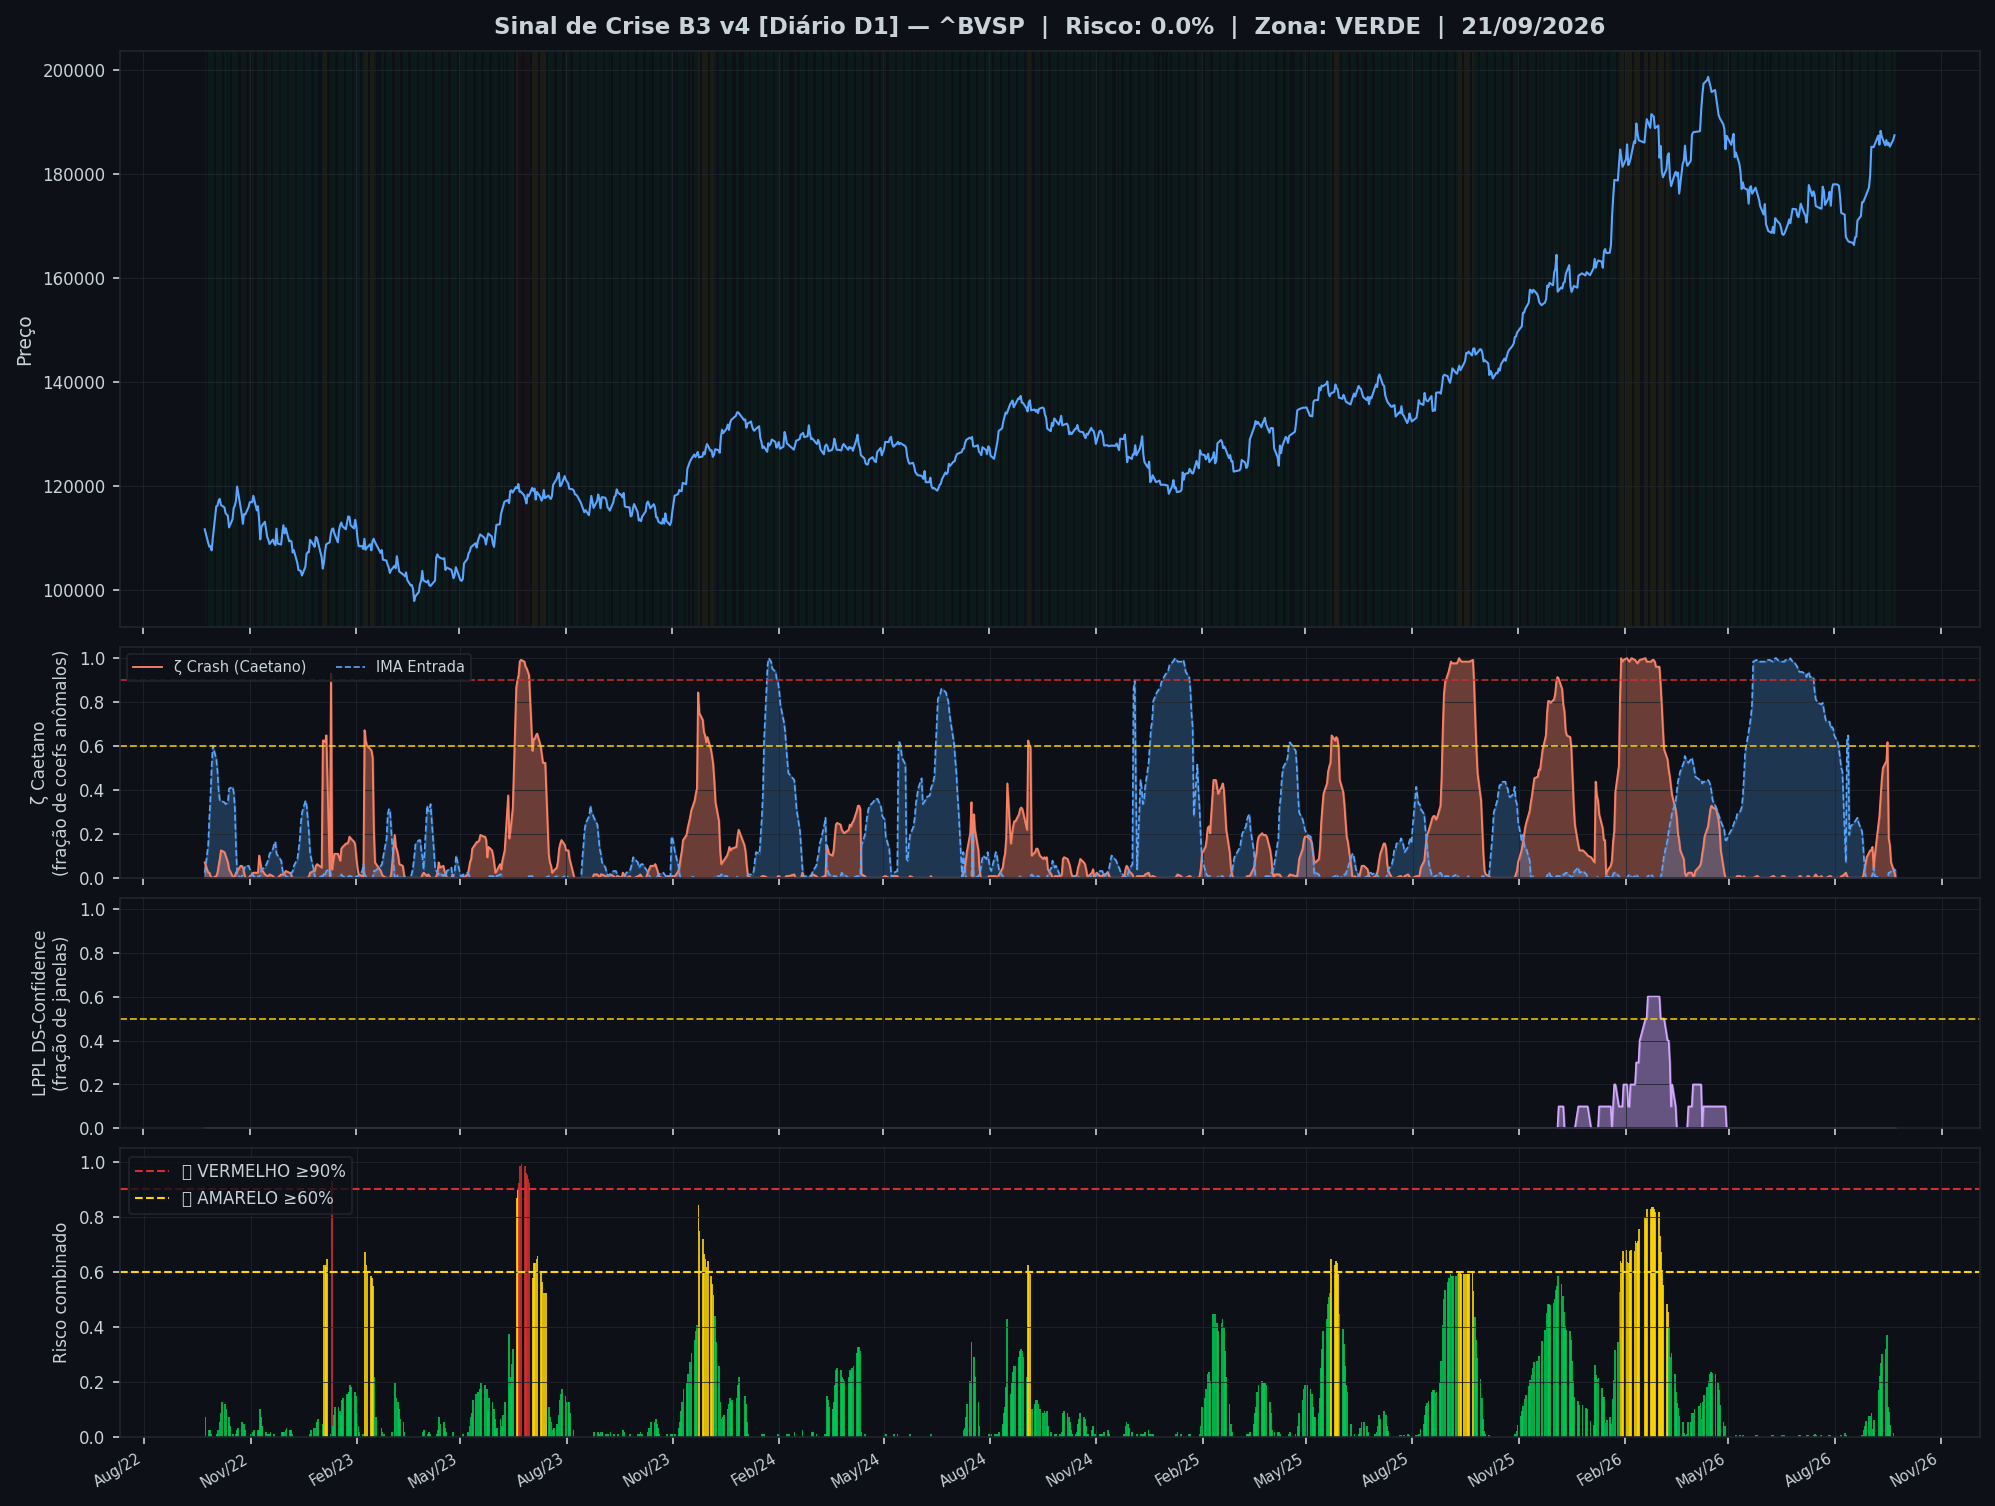
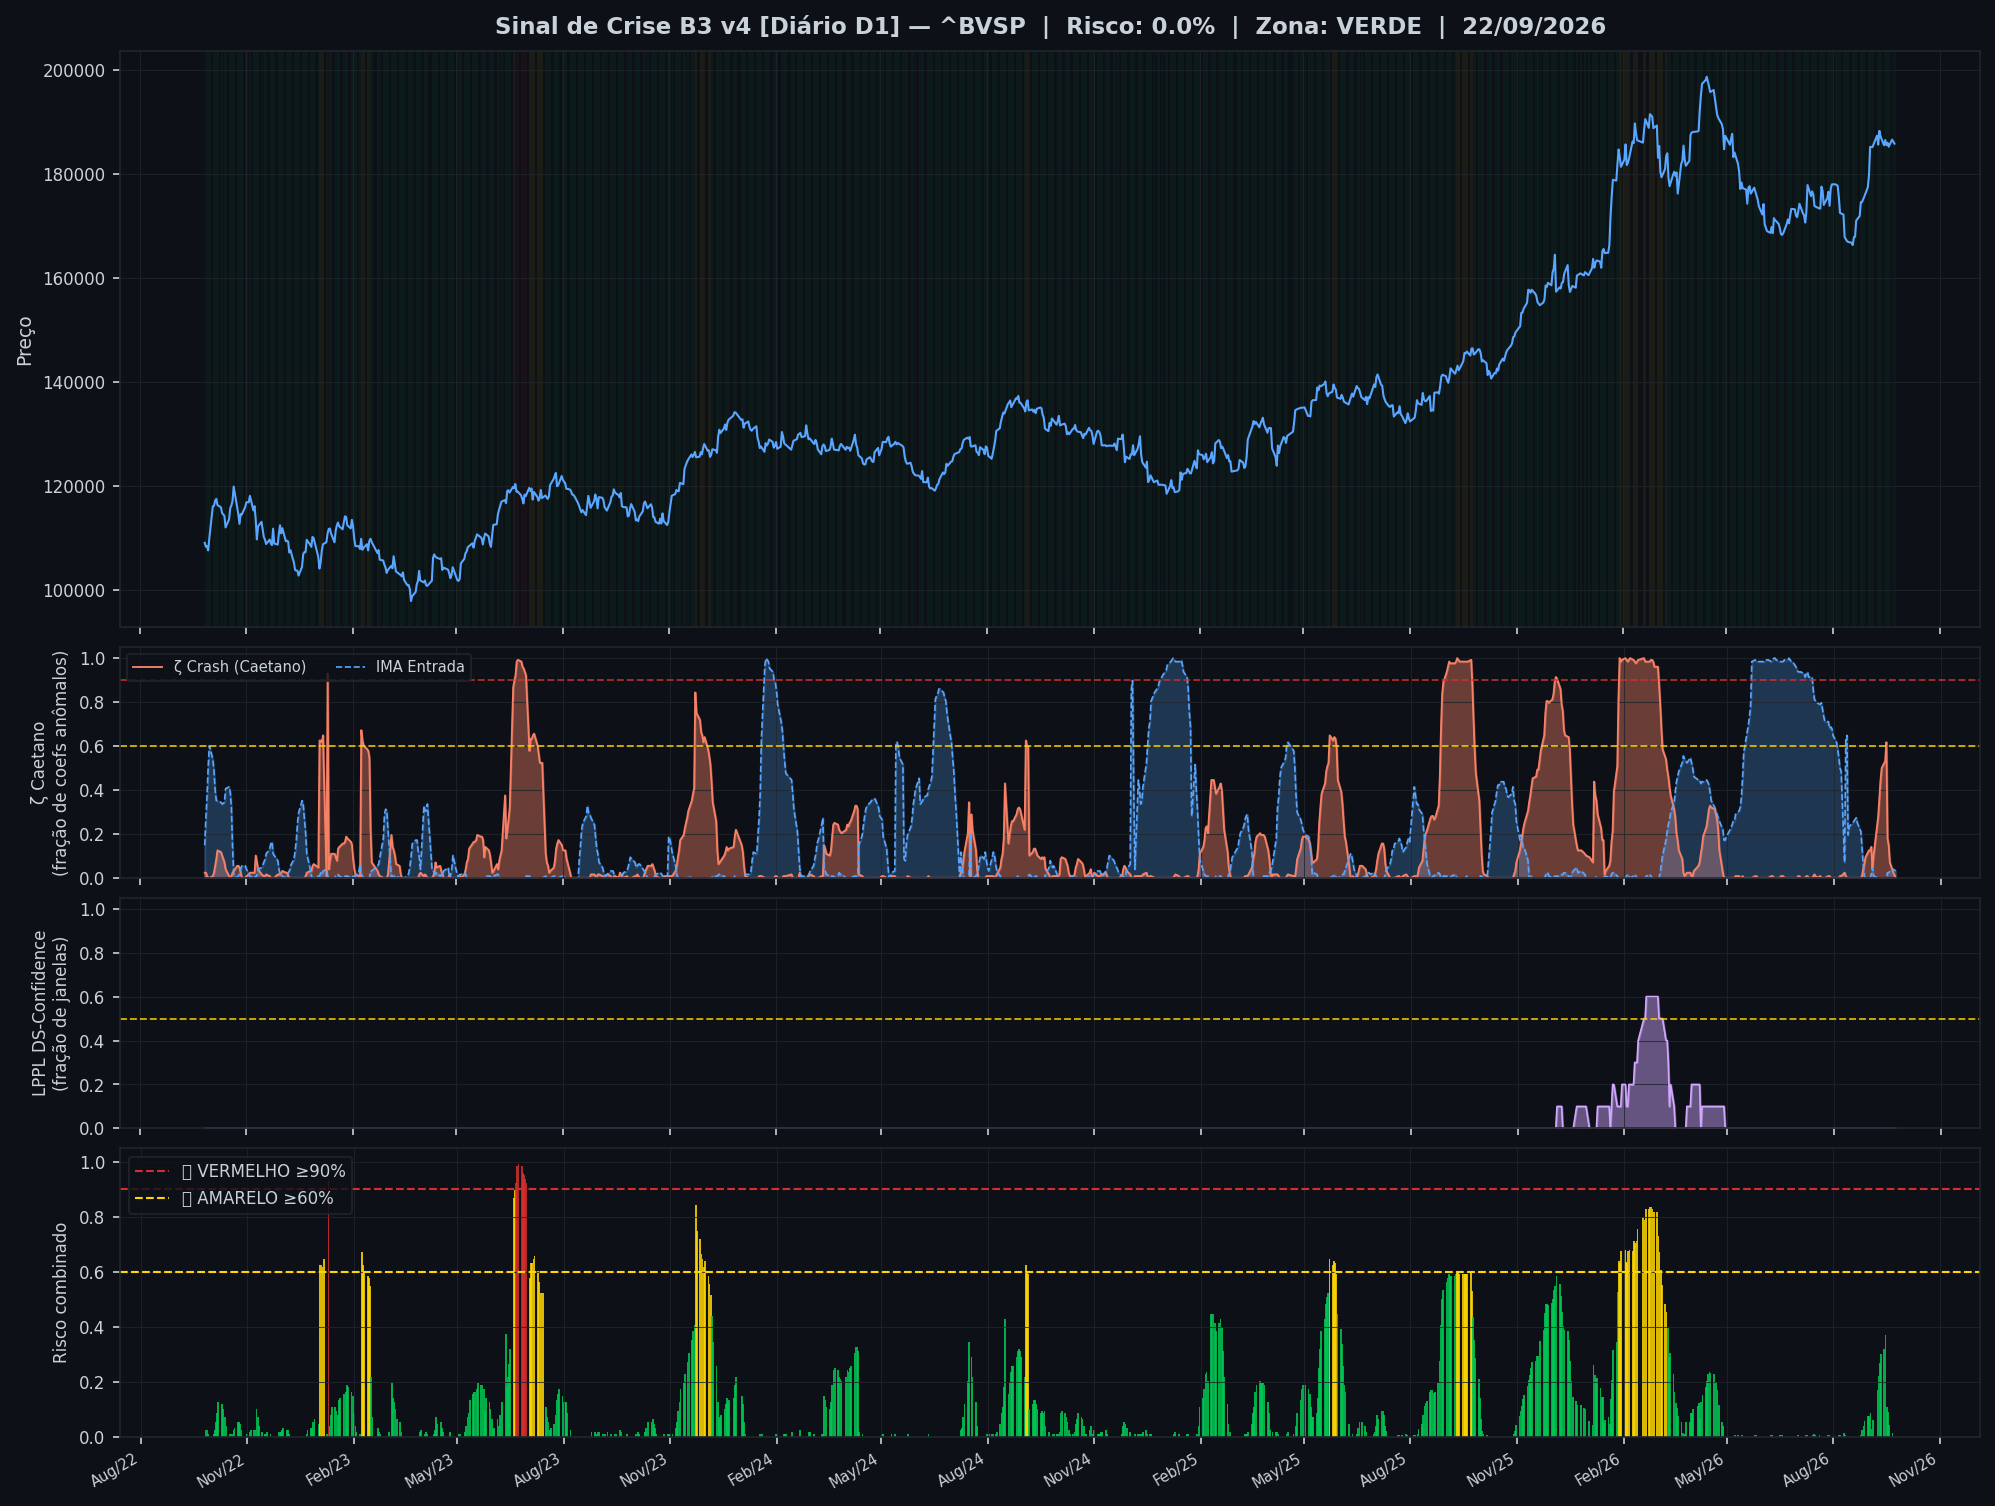
🤖 Auto: Sinal 23/09/2026 19:00

diff --git a/content/diario/2026-09-22.md b/content/diario/2026-09-22.md
@@ -1,0 +1,104 @@
+---
+title: "🟢 Diário 22/09/2026 — VERDE"
+date: 2026-09-23
+tags: [diario]
+---
+
+> [!success] 🟢 **VERDE** — Risco 0% · ▼ -1 p.p. vs leitura anterior
+> `░░░░░░░░░░░░░░░░░░░░`
+> Mercado sem sinais relevantes de estresse.
+
+
+| Indicador | Valor |
+|---|---|
+| 🔴 ζ Crash — severidade da queda em curso | **0%** |
+| 🔵 ζ Entrada — estrutura de fundo | 3% |
+| 🫧 LPPL DS-Confidence | 0% |
+| 📊 Ibovespa | 185.814 pts |
+
+![Gráfico do sinal](../graficos/sinal_diario.png)
+
+## Últimos 30 pregões
+
+| Data | Zona | Risco | IMA Crash | Entrada | LPPL |
+|---|---|---|---|---|---|
+| 2026-09-22 21:00 | 🟢 VERDE | **0%** | 0% | 3% | 0% |
+| 2026-09-20 21:00 | 🟢 VERDE | **1%** | 2% | 4% | 0% |
+| 2026-09-17 21:00 | 🟢 VERDE | **4%** | 7% | 3% | 0% |
+| 2026-09-16 21:00 | 🟢 VERDE | **9%** | 15% | 2% | 0% |
+| 2026-09-15 21:00 | 🟢 VERDE | **11%** | 18% | 2% | 0% |
+| 2026-09-14 21:00 | 🟢 VERDE | **37%** | 62% | 0% | 0% |
+| 2026-09-13 21:00 | 🟢 VERDE | **32%** | 53% | 0% | 0% |
+| 2026-09-10 21:00 | 🟢 VERDE | **30%** | 50% | 0% | 0% |
+| 2026-09-09 21:00 | 🟢 VERDE | **27%** | 45% | 0% | 0% |
+| 2026-09-08 21:00 | 🟢 VERDE | **22%** | 37% | 0% | 0% |
+| 2026-09-07 21:00 | 🟢 VERDE | **17%** | 28% | 0% | 0% |
+| 2026-09-03 21:00 | 🟢 VERDE | **6%** | 10% | 1% | 0% |
+| 2026-09-02 21:00 | 🟢 VERDE | **3%** | 5% | 5% | 0% |
+| 2026-09-01 21:00 | 🟢 VERDE | **8%** | 14% | 2% | 0% |
+| 2026-08-31 21:00 | 🟢 VERDE | **8%** | 12% | 0% | 0% |
+| 2026-08-30 21:00 | 🟢 VERDE | **8%** | 12% | 0% | 0% |
+| 2026-08-27 21:00 | 🟢 VERDE | **6%** | 9% | 0% | 0% |
+| 2026-08-26 21:00 | 🟢 VERDE | **4%** | 6% | 1% | 0% |
+| 2026-08-25 21:00 | 🟢 VERDE | **2%** | 4% | 6% | 0% |
+| 2026-08-24 21:00 | 🟢 VERDE | **0%** | 1% | 14% | 0% |
+| 2026-08-23 21:00 | 🟢 VERDE | **0%** | 0% | 21% | 0% |
+| 2026-08-20 21:00 | 🟢 VERDE | **0%** | 0% | 25% | 0% |
+| 2026-08-19 21:00 | 🟢 VERDE | **0%** | 0% | 27% | 0% |
+| 2026-08-18 21:00 | 🟢 VERDE | **0%** | 0% | 27% | 0% |
+| 2026-08-17 21:00 | 🟢 VERDE | **0%** | 0% | 26% | 0% |
+| 2026-08-16 21:00 | 🟢 VERDE | **0%** | 0% | 25% | 0% |
+| 2026-08-13 21:00 | 🟢 VERDE | **0%** | 0% | 23% | 0% |
+| 2026-08-12 21:00 | 🟢 VERDE | **0%** | 0% | 20% | 0% |
+| 2026-08-11 21:00 | 🟢 VERDE | **0%** | 0% | 65% | 0% |
+| 2026-08-10 21:00 | 🟢 VERDE | **0%** | 1% | 62% | 0% |
+
+## Monitor Multi-Ativo
+
+**0% dos ativos em tensão** (0🔴 0🟡) — quanto mais ativos disparam juntos, mais confiável o sinal.
+
+| Zona | Ativo | Setor | IMA Crash | IMA Entrada |
+|---|---|---|---|---|
+| 🟢 | **USD/BRL** | Câmbio | 18.0% | 0.8% |
+| 🟢 | **VALE** | Mineração | 17.2% | 0.0% |
+| 🟢 | **ITAUUNIBANCO** | Financeiro | 17.2% | 0.0% |
+| 🟢 | **PETROBRAS** | Petróleo | 17.2% | 0.0% |
+| 🟢 | **PETROBRAS** | Petróleo | 17.2% | 0.0% |
+| 🟢 | **AXIA ENERGIA** | Energia | 17.2% | 0.0% |
+| 🟢 | **SABESP** | Saneamento | 17.2% | 0.0% |
+| 🟢 | **BRADESCO** | Financeiro | 17.2% | 0.0% |
+| 🟢 | **B3** | Financeiro | 17.2% | 0.0% |
+| 🟢 | **ITAUSA** | Financeiro | 17.2% | 0.0% |
+| 🟢 | **BTGP BANCO** | Financeiro | 17.2% | 0.0% |
+| 🟢 | **WEG** | Industrial | 17.2% | 0.0% |
+| 🟢 | **EMBRAER** | Outros | 17.2% | 0.0% |
+| 🟢 | **BRASIL** | Financeiro | 17.2% | 0.0% |
+| 🟢 | **AMBEV S/A** | Consumo | 17.2% | 0.0% |
+| 🟢 | **ENEVA** | Energia | 17.2% | 0.0% |
+| 🟢 | **EQUATORIAL** | Energia | 17.2% | 0.0% |
+| 🟢 | **COPEL** | Energia | 17.2% | 0.0% |
+| 🟢 | **VIBRA** | Energia | 17.2% | 0.0% |
+| 🟢 | **PRIO** | Petróleo | 17.2% | 0.0% |
+| 🟢 | **ULTRAPAR** | Outros | 17.2% | 0.0% |
+| 🟢 | **REDE D OR** | Saúde | 17.2% | 0.0% |
+| 🟢 | **LOCALIZA** | Aluguel | 17.2% | 0.0% |
+| 🟢 | **GERDAU** | Siderurgia | 17.2% | 0.0% |
+| 🟢 | **SUZANO S.A.** | Papel/Celulose | 17.2% | 0.0% |
+| 🟢 | **RAIADROGASIL** | Outros | 17.2% | 0.0% |
+
+![Monitor multi-ativo](../graficos/multi_diario.png)
+
+*Página atualizada em 23/09/2026 19:00 BRT (leitura da barra de 2026-09-22 BRT).*
+
+> [!info]- Como interpretar (clique para expandir)
+> - **ζ Crash**: fração dos coeficientes wavelet acima do corte (Caetano & Yoneyama 2009). Escala absoluta: ζ=0,90 = 90% dos coeficientes anômalos — historicamente, quedas com ζ≥0,90 foram mais fundas e mais longas. **Mede a severidade do movimento em curso, não prevê o início da queda.**
+> - **ζ Entrada**: coeficientes negativos além do corte — estrutura de fundo, possível região de compra.
+> - **LPPL DS-Confidence**: fração de janelas (60–504 pregões) em que o modelo de bolha de Sornette produz um ajuste válido. 30% já é relevante; acima de 50% é forte evidência de estrutura de bolha.
+> - **Zonas com histerese**: o sinal só muda de zona ao cruzar o limiar de entrada, e só volta ao cruzar o de saída — evita flip-flop diário.
+
+
+---
+*Sinal de Crise B3 v4 · IMA Wavelet ([Caetano & Yoneyama, Physica-A 2007](https://doi.org/10.1016/j.physa.2007.03.054)) + LPPL DS-Confidence (Sornette, ETH-Zurich) · [Metodologia](metodologia) · [Histórico](historico)*
+
+> [!quote]- Aviso
+> Estudo acadêmico. Não constitui recomendação de investimento.

diff --git a/content/index.md b/content/index.md
@@ -8,9 +8,9 @@ tags: [home]
 
 Monitoramento diário e intraday do Ibovespa — **IMA Wavelet** (Prof. Marco Antonio Leonel Caetano, ITA/INSPER) + **LPPL DS-Confidence** (Prof. Didier Sornette, ETH-Zurich).
 
-*Última atualização: 23/09/2026 17:31 BRT · ^BVSP · Intraday 15min · v4*
+*Última atualização: 23/09/2026 19:00 BRT · ^BVSP · Diário D1 · v4*
 
-> [!success] 🟢 **VERDE** — Risco 0% · ＝ +0 p.p. vs leitura anterior
+> [!success] 🟢 **VERDE** — Risco 0% · ▼ -1 p.p. vs leitura anterior
 > `░░░░░░░░░░░░░░░░░░░░`
 > Mercado sem sinais relevantes de estresse.
 
@@ -18,9 +18,9 @@ Monitoramento diário e intraday do Ibovespa — **IMA Wavelet** (Prof. Marco An
 | Indicador | Valor |
 |---|---|
 | 🔴 ζ Crash — severidade da queda em curso | **0%** |
-| 🔵 ζ Entrada — estrutura de fundo | 22% |
+| 🔵 ζ Entrada — estrutura de fundo | 3% |
 | 🫧 LPPL DS-Confidence | 0% |
-| 📊 Ibovespa | 185.941 pts |
+| 📊 Ibovespa | 185.814 pts |
 
 **Multi-ativo:** 0% em tensão (0🔴 0🟡 de 26 ativos)
 
@@ -32,8 +32,13 @@ Monitoramento diário e intraday do Ibovespa — **IMA Wavelet** (Prof. Marco An
 
 | Data | Zona | Risco | IMA | LPPL |
 |---|---|---|---|---|
-| [23 Sep 2026](diario/2026-09-23) | 🟢 VERDE | **0%** | 0% | 0% |
-| [22 Sep 2026](diario/2026-09-22) | 🟢 VERDE | **27%** | 27% | 0% |
+| [22 Sep 2026](diario/2026-09-22) | 🟢 VERDE | **0%** | 0% | 0% |
+| [20 Sep 2026](diario/2026-09-20) | 🟢 VERDE | **1%** | 2% | 0% |
+| [17 Sep 2026](diario/2026-09-17) | 🟢 VERDE | **4%** | 7% | 0% |
+| [16 Sep 2026](diario/2026-09-16) | 🟢 VERDE | **9%** | 15% | 0% |
+| [15 Sep 2026](diario/2026-09-15) | 🟢 VERDE | **11%** | 18% | 0% |
+| [14 Sep 2026](diario/2026-09-14) | 🟢 VERDE | **37%** | 62% | 0% |
+| [13 Sep 2026](diario/2026-09-13) | 🟢 VERDE | **32%** | 53% | 0% |
 
 ## Navegação
 

diff --git a/content/historico.md b/content/historico.md
@@ -7,6 +7,7 @@ tags: [historico]
 
 | Data | Modo | Zona | Risco | IMA | LPPL |
 |---|---|---|---|---|---|
+| 2026-09-22 | diario | 🟢 VERDE | 0% | 0% | 0% |
 | 2026-09-23 16:45 | intraday | 🟢 VERDE | 0% | 0% | 0% |
 | 2026-09-23 16:30 | intraday | 🟢 VERDE | 0% | 0% | 0% |
 | 2026-09-23 16:15 | intraday | 🟢 VERDE | 0% | 0% | 0% |
